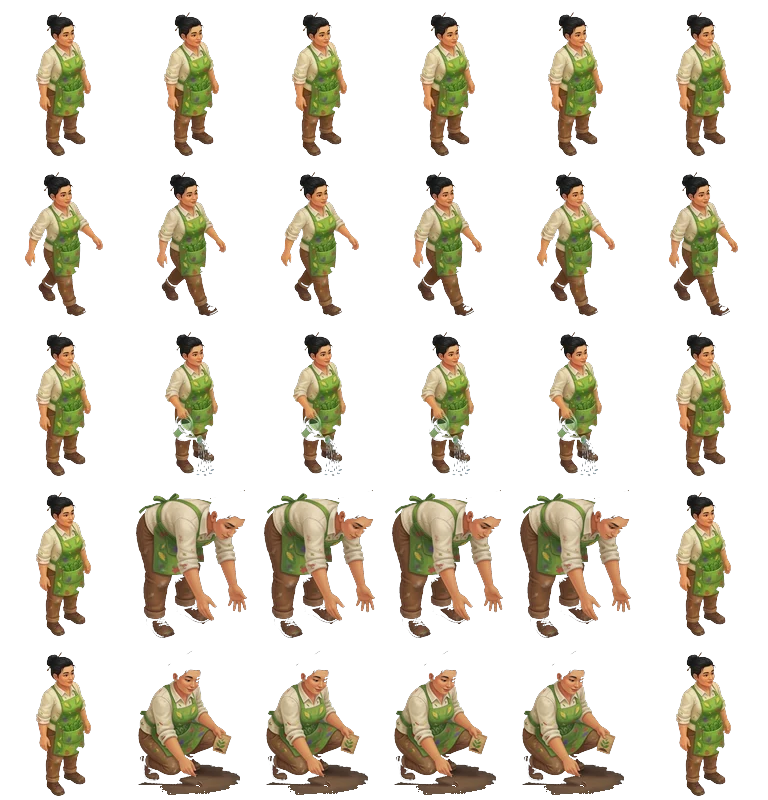
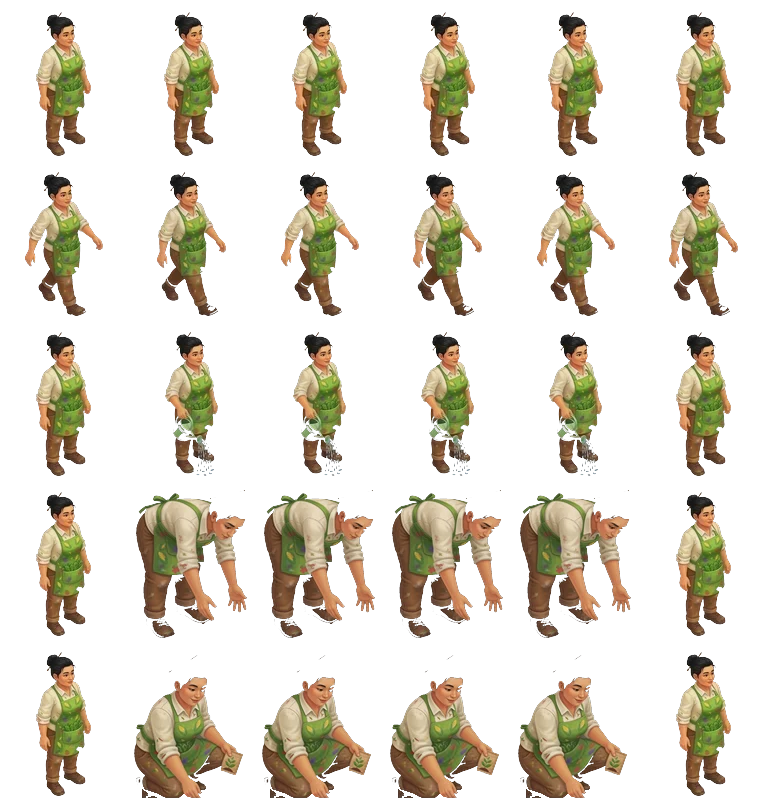
fix: 收割弯腰摘菜、种植蹲下按土，人站在垄前缘

Changed region(s): [[0.3438, 0.8125, 0.8125, 1.0], [0.1562, 0.8438, 0.3125, 1.0]]

diff --git a/service-worker.js b/service-worker.js
@@ -70,7 +70,7 @@ self.addEventListener('notificationclick', (event) => {
 
 // CACHE_VERSION 由 deploy.sh 在每次部署时自动注入时间戳（ef-YYMMDDHHMM），
 // 不再手动 +1 —— 忘 bump 会让全体 PWA 用户静默停在旧版（iOS 要删 App 才能救）。
-const CACHE_VERSION = 'ef-2608201907';
+const CACHE_VERSION = 'ef-2608201910';
 const CACHE = 'eastern-farm-' + CACHE_VERSION;
 // Precache the FULL app shell — HTML + CSS + every JS module + data JSON — so a SW
 // update (which clears the old cache) followed by a flaky mobile network can never leave

diff --git a/src/index.html b/src/index.html
@@ -6,7 +6,7 @@
 <meta name="theme-color" content="#fdf8ee">
 <!-- 部署构建号（deploy.sh 每次注入 CACHE_VERSION 时间戳）。SW 新鲜度守卫据此
      判断本页是否已过期（见页尾脚本）。ef-dev = 未部署的本地版本。 -->
-<meta name="ef-build" content="ef-2608201907">
+<meta name="ef-build" content="ef-2608201910">
 
 <!-- ==================== PWA (add to home screen) ==================== -->
 <link rel="manifest" href="manifest.webmanifest">

diff --git a/src/worldcup.html b/src/worldcup.html
@@ -3,7 +3,7 @@
 <head>
 <meta charset="UTF-8">
 <meta name="viewport" content="width=device-width, initial-scale=1.0, viewport-fit=cover">
-<meta name="ef-build" content="ef-2608201907">
+<meta name="ef-build" content="ef-2608201910">
 <meta name="theme-color" content="#3a7d2c">
 
 <!-- ==================== PWA (add to home screen) ==================== -->

diff --git a/scripts/_pack_work_poses.py b/scripts/_pack_work_poses.py
@@ -22,7 +22,7 @@ def is_bg(r, g, b, br, bg, bb, tol):
 
 
 def key_rgba(src, tol=42):
-    im = Image.open(src).convert('RGBA')
+    im = src if isinstance(src, Image.Image) else Image.open(src).convert('RGBA')
     w, h = im.size
     pix = im.load()
     samples = [pix[0, 0][:3], pix[w - 1, 0][:3], pix[0, h - 1][:3], pix[w - 1, h - 1][:3]]
@@ -124,7 +124,9 @@ def main():
         cw, ch = sheet.width // COLS, sheet.height // ROWS
         assert cw == CELL_W and ch == CELL_H, (look, cw, ch)
         hv = fit_cell(key_rgba(sess(HARVEST[look])))
-        pl = wipe_ground(fit_cell(strip_floor(key_rgba(sess(PLANT[look])))))
+        pim = Image.open(sess(PLANT[look])).convert('RGBA')
+        pim = pim.crop((0, 0, pim.width, int(pim.height * 0.78)))
+        pl = wipe_ground(fit_cell(strip_floor(key_rgba(pim))))
         blank = Image.new('RGBA', (CELL_W, CELL_H), (0, 0, 0, 0))
         for col in range(1, 5):
             sheet.paste(blank, (col * CELL_W, 3 * CELL_H))

diff --git a/CLAUDE.md b/CLAUDE.md
@@ -339,6 +339,10 @@ See `docs/GAME-DESIGN.md` for full spec. TL;DR:
   走 / 浇水 / 收获 / 摊前站着。新号默认女农户。不造假名、不上照片。
   贴图按需加载，不进 SW 预缓存。规格：
   `docs/superpowers/specs/2026-08-20-painted-farmers-design.md`
+- 🔒 **收割/种植落点（2026-08-20）**：人站在**本块地朝镜头的前缘**（`plotPos`，偏移约 +0.14/+0.38），
+  手够得到土和菜。寻路/停车只走到邻格 `approachPos`，最后一小段再走进垄。
+  收割是弯腰空手去摘（地里的菜还在，播完才进仓）；种植是蹲下拿手按进土，图里不带土堆。
+  契约：`scripts/verify/farmer-work-test.mjs`。
 - 🔒 **等距朝向（2026-08-20）**：格子是 2:1，`_cell` 里 `x∝(gx-gy)`、`y∝(gx+gy)`。
   人/车贴图都是 3/4 朝右下。朝向**必须**走 `farmer.heading(dx, dy)`：
   屏幕右 = `dx-dy ≥ 0` → 水平翻转；背对镜头 = `dx+dy < 0` → 换
